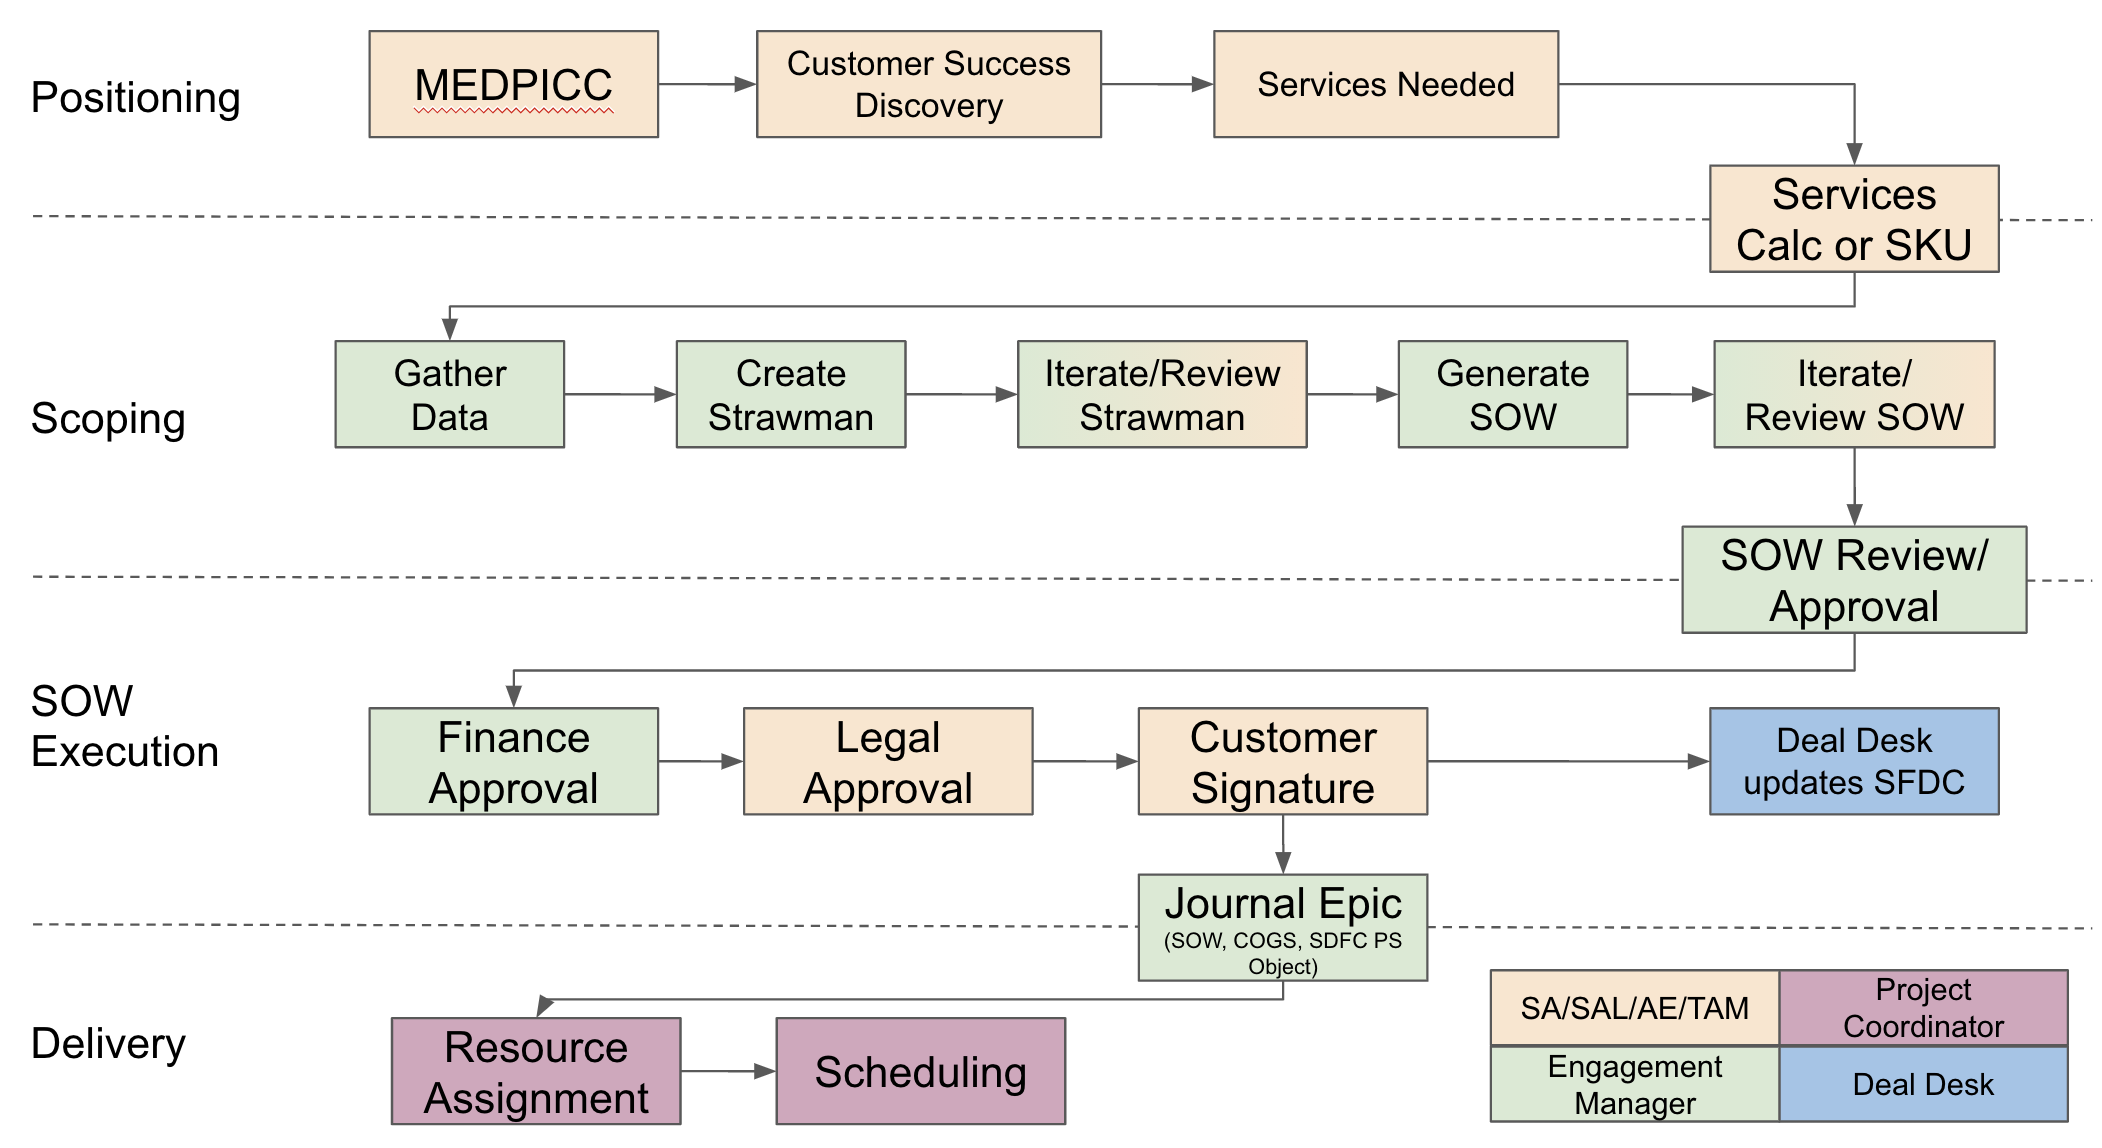
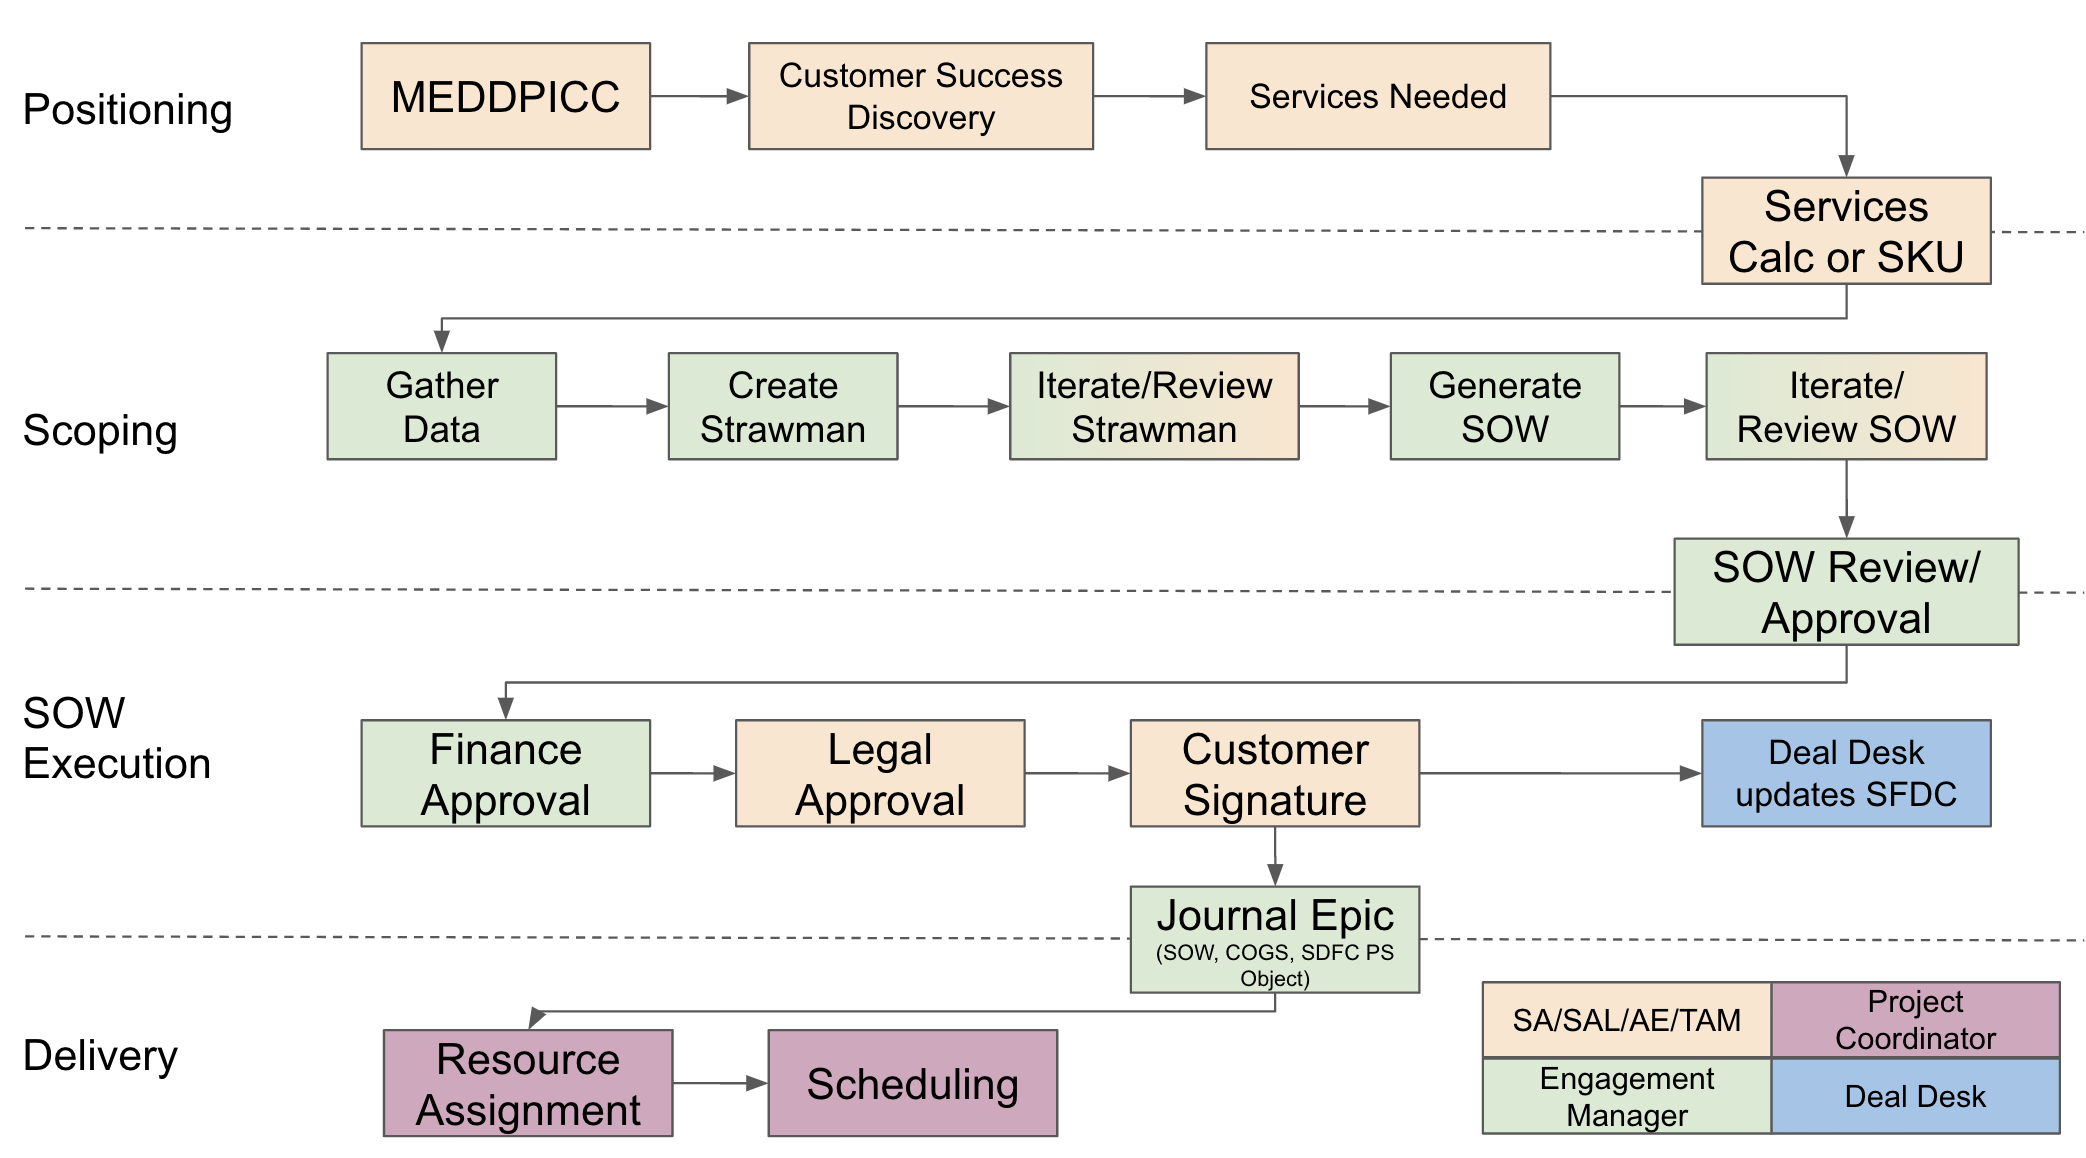
updates content PS scoping

diff --git a/customer-success/professional-services-engineering/scoping/index.html.md b/customer-success/professional-services-engineering/scoping/index.html.md
@@ -13,7 +13,7 @@ description: “Discover how GitLab Scopes Professional Services for custom SOWs
 {:toc .hidden-md .hidden-lg}
 
 ## Overview
-The pupose of this page is to document the sales-assisted selling motion used by Professional Services Engagement Managers and Regional Delivery Managers. If you're on a GitLab sales account team looking for information, try these pages on [positioning professional services](/handbook/customer-success/professional-services-engineering/positioning) or [selling professional services](/handbook/customer-success/professional-services-engineering/selling/#custom-scoped-services). 
+The purpose of this page is to document the sales-assisted selling motion used by Professional Services Engagement Managers and Regional Delivery Managers. If you're on a GitLab sales account team looking for information, try these pages on [positioning professional services](/handbook/customer-success/professional-services-engineering/positioning) or [selling professional services](/handbook/customer-success/professional-services-engineering/selling/#custom-scoped-services). 
 
 This page will help outline the when and how to get involved with positioning and scoping services, how to estimate, how to use SOW generation software, and the processes to gain approval. 
 
@@ -24,31 +24,52 @@ For custom SOWs, the [workflow for SOW creation](/handbook/customer-success/prof
 ![](./scoping-workflow.png)
 [Source](https://docs.google.com/presentation/d/1TOI2aoseBoyWYQC6-xpJVMknEncCNreSFfMvOHO7EBA/edit#slide=id.gbfb62d0c00_0_58) (GitLab Team Members Only)
 
-## When to get involved with positioning/scoping services
-### Land
-The answer to this question depends on the customer size. For the larger, more strategic customers Engagement Managers tend to get involved earlier in the selling process to help with discovery and provide lessons learned on rollout from past engagements. For the medium sized customers, Engagement managers tend to get involved with account teams when the SFDC stage 4 (Proposal) is achieved. As of publication of this page (Feb 2022), its the responsibility of the account team (SA, SAL) to get in touch with the Engagement manager in the [#professional-services](https://gitlab.slack.com/archives/CFRLYG77X) slack channel.
+## Positioning
 
-### Expand
-If an account team is trying to help a customer expand to use a new stage in the software or increase tier to get access to features they didnt have before or even when a company has a new influx of users onboard to GitLab, it could merit positioning of services. As of publication of this page (Feb 2022), its the responsibility of the account team (TAM, SAL) to get in touch with the Engagement manager in the [#professional-services](https://gitlab.slack.com/archives/CFRLYG77X) slack channel.
+### MEDDPICC
+Professional services can be positioned when a prospect becomes a customer (e.g. the Land of a new deal) or when an already existing customer is growing their staff or interesting in adopting new features of GitLab (e.g. expansion). The SA, SAL, AE, or TAM (e.g. "Account Team") is primarily responsible for this process, following the [Command of the Message](/handbook/sales/command-of-the-message/) and [MEDDPICC](/handbook/sales/meddppicc/) messaging frameworks.
 
-## How to get involved with positioning/scoping services
-The Engagement Manager can respond to questions direclty in slack or can request to meet with the account team to discuss the request in more detail. When a request is qualified (i.e. we agree that proposing PS engagement makes sense), the SA/TAM is responsible for creating a scoping issue via the [services calculator](https://services-calculator.gitlab.io/). The services calculator will generate a number of issues to help facilitate the scoping and SOW signature process ([example](https://gitlab.com/groups/gitlab-com/customer-success/professional-services-group/-/epics/826), GitLab team members only). 
+For the larger, more strategic customers PS Engagement Managers tend to get involved earlier in the selling process to help with discovery and provide lessons learned on rollout from past engagements. For the medium sized customers, Engagement managers tend to get involved with account teams when the SFDC stage 4 (Proposal) is achieved. 
 
-After the services calculator is run by the SA, scoping issues are automatically created and land in the [PS Plan](https://gitlab.com/gitlab-com/customer-success/professional-services-group/ps-plan/-/issues) Project. Using this customer scoping issue, there is usually asyncronous data gathering that happens directly on the issue. Questions about the potential engagement can sometimes be answered by the SA from the discovery that was done already. We want to make sure we avoid asking duplicative questions to the customer. Once the initial data is gathered, the Engagement Manager meets with the account team and customer to discuss how PS could help ensure the Customer's goals are achieved with their investment in GitLab. This can and should be iterative. 
+### Customer Success Discovery
+The Account team should be encouraged to use the [Customer Terrain Mapping templates](/handbook/customer-success/customer-terrain-mapping/#catalog-of-customer-terrain-mapping-engagements) to help the customer to start thinking about *how* they will achieve their longer term success. This typically results in conversations about services to aide them in their journey. 
 
-## Discovery questions
+### Services Needed
+Once its identified that the customer will likely want to engage with professional services, its the responsibility of the Account Team to get in touch with the Engagement Manager in the [#professional-services](https://gitlab.slack.com/archives/CFRLYG77X) slack channel and/or by running the [services calculator](https://services-calculator.gitlab.io/)
+
+## Scoping
+
+### Gather Data
+After the [services calculator](https://services-calculator.gitlab.io/) is run by the Account Team, scoping issues are automatically created and land in the [PS Plan](https://gitlab.com/gitlab-com/customer-success/professional-services-group/ps-plan/-/issues) Project. Using this customer scoping issue, there is usually asyncronous data gathering that happens directly on the issue. Questions about the potential engagement can sometimes be answered by the SA from the discovery that was done already. We want to make sure we avoid asking duplicate questions to the customer. Once the initial data is gathered, the Engagement Manager meets with the account team and customer to discuss how PS could help ensure the Customer's goals are achieved with their investment in GitLab. This can and should be iterative. 
+
+### Create Strawman
+The Engagement Manager uses the [straw-man spreadsheet](https://docs.google.com/spreadsheets/d/1wkmKhhGyLoxqWCXFtiI99tNgVaEJ-hTQJRwTOsU0j_Y/edit#gid=1815139260) to define the services in scope and estimate the amount of time for each activity. There is a catalog of activities in the [SOW generation automation](https://gitlab.com/services-calculator/services-calculator.gitlab.io) project or a list of services can be found at our [offerings framework](/handbook/customer-success/professional-services-engineering/framework) page. 
+
+### Iterate / Review Strawman
 TODO
 
-## Scoping & Estimation
-The Engagement Manager uses the [straw-man spreadsheet](https://docs.google.com/spreadsheets/d/1wkmKhhGyLoxqWCXFtiI99tNgVaEJ-hTQJRwTOsU0j_Y/edit#gid=1815139260) to define the services in scope and estimate the amount of time for each activity. Once the Engagement Manager can get buy in from the account team and/or customer on the size and activities included in the services engagement, the [SOW generation automation](https://gitlab.com/services-calculator/services-calculator.gitlab.io) can be run using the straw-man as an input. To use this automation, follow the instructions on the readme in the :point_up: project. 
+### Generate SOW
+Once the Engagement Manager can get buy in from the account team and/or customer on the size and activities included in the services engagement, the [SOW generation automation](https://gitlab.com/services-calculator/services-calculator.gitlab.io) can be run using the straw-man as an input.  To use this automation, follow the instructions on the readme in the :point_up: project.
 
-## Review & Approval
-Once the SOw is generated, it is ready for review by the account team. After one or more rounds of iteration on feedback from the account team, the SOW will be ready for Review and Approval by Sr. Director of Professional Services. These review processes happen in the [#professional-services](https://gitlab.slack.com/archives/CFRLYG77X) and **at-mention** the specific people from whom the engagemenet manger is seeking approval. 
+### Iterate/Review SOW Data
+Once the SOw is generated, it is ready for review by and the account team.
 
-Once the SOW has been approved by PS leadership, the account team is owns the process of acquiring signature from the customer representative. They will also be responsible for updating the salesforce PS Only object. 
+### SOW Review/Approval
+After one or more rounds of iteration on feedback from the account team, the SOW will be ready for Review and Approval by Sr. Director of Professional Services. These review processes happen in the [#professional-services](https://gitlab.slack.com/archives/CFRLYG77X) and **at-mention** the specific people from whom the engagemenet manger is seeking approval.
 
-## Pre-sales to Delivery Handoff
-Check out the [PS Delivery](/handbook/customer-success/professional-services-engineering/delivery/) services methodology to see how the pre-sales handoff is facilitated via GitLab issues, Salesforce Objects and handoff meetings. Typically, once the engagement goes `closed-won` in salesforce, the project coordinator schedules a handoff meeting to discuss resource assignment, schedule, and technical details of discussions that occured before the sale closed. 
+## SOW Execution
+
+### Finance & Legal Approval, Customer Signature
+Once the SOW has been approved by PS leadership, the account team is owns the process of executing the SOW. The engagement manager can kick off the finance approval process in Salesforce. The Account team is responsible for creating a Legal Approval in Salesforce from the button in the opportunity. Once PS Sr. Director, Finance, and Legal approve, they will should send it to the customer for signature.
+
+### Deal Desk updates SFDC
+Once the SOW is fully executed, the deal desk team updates the Salesforce PS-Only opportunity to `closed-won`. 
+
+### Journal Epic
+TODO: 
+
+## Delivery Handoff
+Check out the [PS Delivery](/handbook/customer-success/professional-services-engineering/delivery/) services methodology to see how the pre-sales handoff is facilitated via GitLab issues, Salesforce Objects and handoff meetings. Typically, once the engagement goes `closed-won` in salesforce, the project coordinator schedules a handoff meeting to discuss resource assignment, schedule, and technical details of discussions that occurred before the sale closed. 
 
 <!--This page provides scoping questions designed to collect details and uncover the customer's required capabilities. This ensures alignment of the SOW and PS delivery with the positive business outcomes the customer is looking for.  While not an exhaustive list, these questions and suggestions will help spark the discovery conversations.
 
